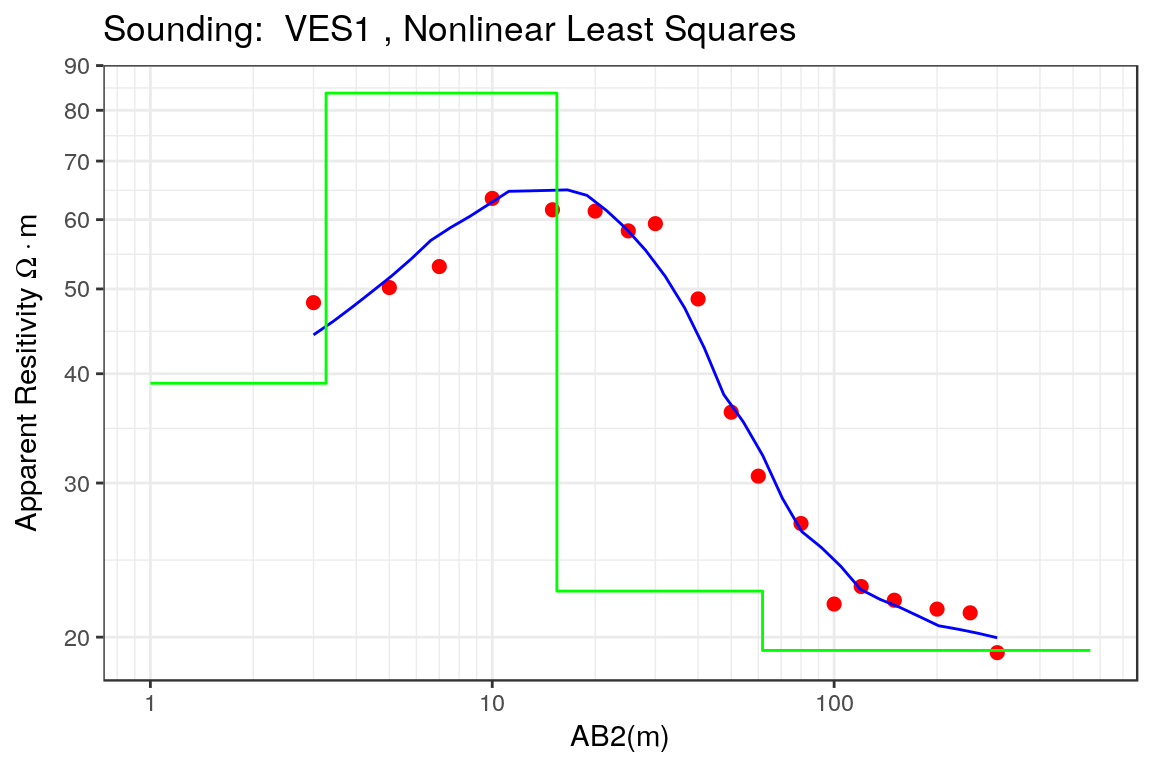
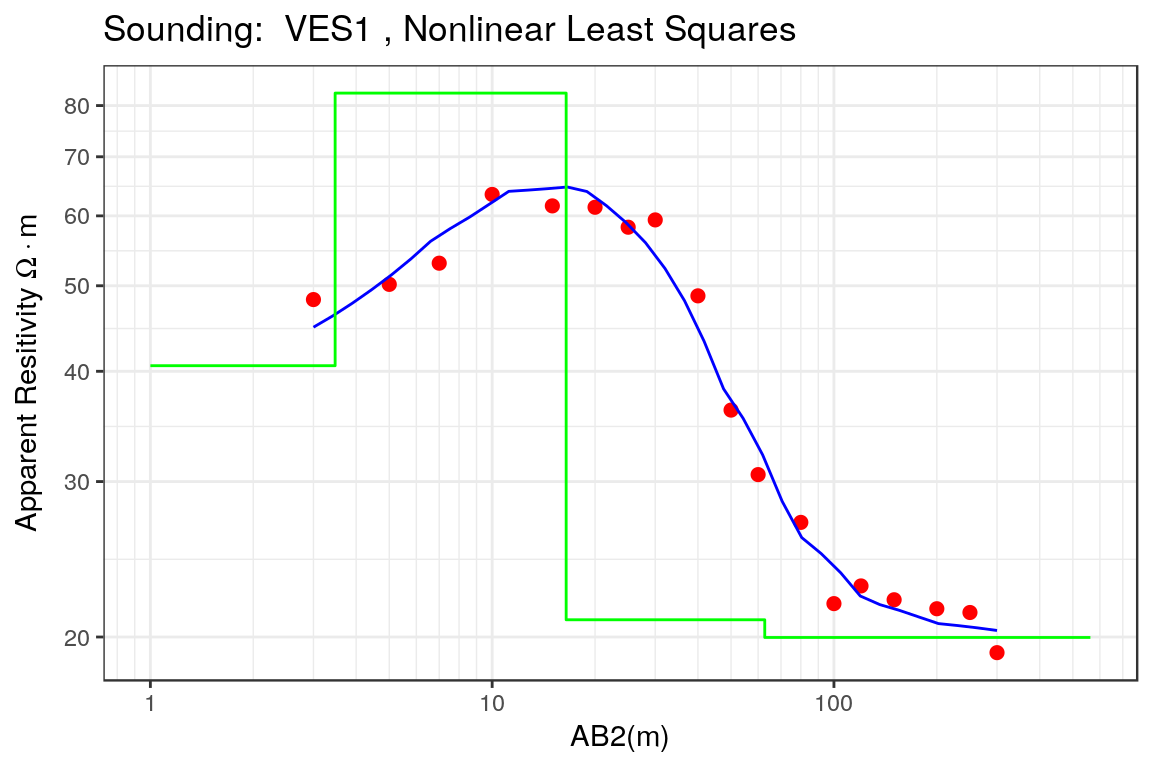
Package doc site updated.

diff --git a/docs/articles/rves-smoothing.html b/docs/articles/rves-smoothing.html
@@ -71,7 +71,7 @@
       <h1>VES Smoothing using the rves package</h1>
                         <h4 class="author">Oscar Garcia-Cabrejo</h4>
             
-            <h4 class="date">2018-03-04</h4>
+            <h4 class="date">2018-03-06</h4>
           </div>
 
     
@@ -200,9 +200,9 @@ thick &lt;-<span class="st"> </span><span class="kw">c</span>(<span class="dv">2
 par0 &lt;-<span class="st"> </span><span class="kw">c</span>(rho, thick)</code></pre></div>
 <p>and the true resistivities and layer thicknesses are estimated using the conventional nonlinear least-squares approach:</p>
 <div class="sourceCode"><pre class="sourceCode r"><code class="sourceCode r">res.ss.nls &lt;-<span class="st"> </span><span class="kw"><a href="../reference/calibrate_nls.html">calibrate_nls</a></span>(sev1ss, par0, <span class="dt">iterations =</span> <span class="dv">10</span>, <span class="dt">ireport =</span> <span class="dv">5</span>)
-<span class="co">#&gt; iteration, RSS, Rel Error =  0 0.002201384 2.654601 </span>
-<span class="co">#&gt; iteration, RSS, Rel Error =  5 0.0003970715 1.093091 </span>
-<span class="co">#&gt; iteration, RSS, Rel Error =  9 0.0002212703 0.8111669</span></code></pre></div>
+<span class="co">#&gt; iteration, RSS, Rel Error =  0 0.002201384 3.110148 </span>
+<span class="co">#&gt; iteration, RSS, Rel Error =  5 0.0003970715 1.267168 </span>
+<span class="co">#&gt; iteration, RSS, Rel Error =  9 0.0002212703 0.9438456</span></code></pre></div>
 <p>The results of the calibration are assigned to the ves object</p>
 <div class="sourceCode"><pre class="sourceCode r"><code class="sourceCode r">sev1ss<span class="op">$</span>rhopar &lt;-<span class="st"> </span>res.ss.nls<span class="op">$</span>rho
 sev1ss<span class="op">$</span>thickpar &lt;-<span class="st"> </span>res.ss.nls<span class="op">$</span>thickness
@@ -241,9 +241,9 @@ res.kr.df &lt;-<span class="st"> </span><span class="kw">data.frame</span>(<span
               <span class="dt">apprho =</span> res.kr<span class="op">$</span>apprho)</code></pre></div>
 <p>and the estimates of the real resistivities and thicknesses is obtained:</p>
 <div class="sourceCode"><pre class="sourceCode r"><code class="sourceCode r">res.kr.nls &lt;-<span class="st"> </span><span class="kw"><a href="../reference/calibrate_nls.html">calibrate_nls</a></span>(sev1kr, par0, <span class="dt">iterations =</span> <span class="dv">10</span>, <span class="dt">ireport =</span> <span class="dv">5</span>)
-<span class="co">#&gt; iteration, RSS, Rel Error =  0 0.002041967 2.584166 </span>
-<span class="co">#&gt; iteration, RSS, Rel Error =  5 0.0002895334 0.9670573 </span>
-<span class="co">#&gt; iteration, RSS, Rel Error =  9 0.0001384567 0.6277856</span></code></pre></div>
+<span class="co">#&gt; iteration, RSS, Rel Error =  0 0.002041967 3.017298 </span>
+<span class="co">#&gt; iteration, RSS, Rel Error =  5 0.0002895334 1.084667 </span>
+<span class="co">#&gt; iteration, RSS, Rel Error =  9 0.0001384567 0.7404027</span></code></pre></div>
 <p>The calibration results are assigned to the ves object using</p>
 <div class="sourceCode"><pre class="sourceCode r"><code class="sourceCode r">sev1kr<span class="op">$</span>rhopar &lt;-<span class="st"> </span>res.kr.nls<span class="op">$</span>rho
 sev1kr<span class="op">$</span>thickpar &lt;-<span class="st"> </span>res.kr.nls<span class="op">$</span>thickness
@@ -282,9 +282,9 @@ res.wv.df &lt;-<span class="st"> </span><span class="kw">data.frame</span>(<span
               <span class="dt">apprho =</span> res.wv<span class="op">$</span>apprho)</code></pre></div>
 <p>which in turn is used to estimate the layer parameters:</p>
 <div class="sourceCode"><pre class="sourceCode r"><code class="sourceCode r">res.wv.nls &lt;-<span class="st"> </span><span class="kw"><a href="../reference/calibrate_nls.html">calibrate_nls</a></span>(sev1wv, par0, <span class="dt">iterations =</span> <span class="dv">10</span>, <span class="dt">ireport =</span> <span class="dv">5</span>)
-<span class="co">#&gt; iteration, RSS, Rel Error =  0 0.002179202 2.449921 </span>
-<span class="co">#&gt; iteration, RSS, Rel Error =  5 0.0002837838 0.9449526 </span>
-<span class="co">#&gt; iteration, RSS, Rel Error =  9 0.0001236067 0.6023878</span></code></pre></div>
+<span class="co">#&gt; iteration, RSS, Rel Error =  0 0.002179202 3.100372 </span>
+<span class="co">#&gt; iteration, RSS, Rel Error =  5 0.0002837838 1.13349 </span>
+<span class="co">#&gt; iteration, RSS, Rel Error =  9 0.0001236067 0.7099613</span></code></pre></div>
 <p>The results of the calibration are assigned again to the ves object:</p>
 <div class="sourceCode"><pre class="sourceCode r"><code class="sourceCode r">sev1wv<span class="op">$</span>rhopar &lt;-<span class="st"> </span>res.wv.nls<span class="op">$</span>rho
 sev1wv<span class="op">$</span>thickpar &lt;-<span class="st"> </span>res.wv.nls<span class="op">$</span>thickness

diff --git a/docs/reference/plot_diagnostic.html b/docs/reference/plot_diagnostic.html
@@ -6,7 +6,7 @@
 <meta http-equiv="X-UA-Compatible" content="IE=edge">
 <meta name="viewport" content="width=device-width, initial-scale=1.0">
 
-<title>plot.ves — plot.ves • rves</title>
+<title>plot_diagnostic — plot_diagnostic • rves</title>
 
 <!-- jquery -->
 <script src="https://code.jquery.com/jquery-3.1.0.min.js" integrity="sha384-nrOSfDHtoPMzJHjVTdCopGqIqeYETSXhZDFyniQ8ZHcVy08QesyHcnOUpMpqnmWq" crossorigin="anonymous"></script>
@@ -93,47 +93,32 @@
       <div class="row">
   <div class="col-md-9 contents">
     <div class="page-header">
-    <h1>plot.ves</h1>
+    <h1>plot_diagnostic</h1>
     </div>
 
     
-    <p>Function to plot the Vertical Electric Sounding data. This function can create two different
-types of plots: resistivity and interpretation. The resistivity plot includes the
-apparent resistivity vs electrode spacing. In the interpretation plot, the values of the
-apparent resistivity vs electrode spacing and the thickness and real resisitivity of the
-layers are included.</p>
+    <p>Function to create an estimation diagnostic plot composed of:</p><ul>
+<li><p>Scatterplot between the measured and calculated apparement resistivity</p></li>
+<li><p>Scatterplot between calculated apparent resistivity and the residuals</p></li>
+<li><p>Scatterplot between the calculated apparent resistivity and the standarized residuals</p></li>
+<li><p>QQplot of the residuals</p></li>
+</ul>
     
 
-    <pre class="usage"><span class='co'># S3 method for ves</span>
-<span class='fu'>plot</span>(<span class='no'>x</span>, <span class='kw'>main</span> <span class='kw'>=</span> <span class='kw'>NULL</span>, <span class='kw'>type</span> <span class='kw'>=</span> <span class='fu'>c</span>(<span class='st'>"ves"</span>, <span class='st'>"transformation"</span>,
-  <span class='st'>"diagnostic"</span>), <span class='kw'>trans.type</span> <span class='kw'>=</span> <span class='fu'>c</span>(<span class='st'>"direct"</span>, <span class='st'>"scaling"</span>), <span class='no'>...</span>)</pre>
+    <pre class="usage"><span class='fu'>plot_diagnostic</span>(<span class='no'>x</span>)</pre>
     
     <h2 class="hasAnchor" id="arguments"><a class="anchor" href="#arguments"></a> Arguments</h2>
     <table class="ref-arguments">
     <colgroup><col class="name" /><col class="desc" /></colgroup>
     <tr>
       <th>x</th>
-      <td><p>A VES object</p></td>
-    </tr>
-    <tr>
-      <th>main</th>
-      <td><p>Title of the plot</p></td>
-    </tr>
-    <tr>
-      <th>type</th>
-      <td><p>A character string specifying the plot type. Currently only ves (measurements and
-earth model), transformation (resistivity-depth transformation) and diagnostic are supported.</p></td>
-    </tr>
-    <tr>
-      <th>trans.type</th>
-      <td><p>A character string specifying the transformation type. Only direct and scaling
-are currently supported.</p></td>
-    </tr>
-    <tr>
-      <th>...</th>
-      <td><p>Additional parameters to be passed to the plot function</p></td>
+      <td><p>A VES object, The VES must be intepreted.</p></td>
     </tr>
     </table>
+    
+    <h2 class="hasAnchor" id="value"><a class="anchor" href="#value"></a>Value</h2>
+
+    <p>This function returns a ggplot2 object</p>
     
 
   </div>
@@ -141,7 +126,13 @@ are currently supported.</p></td>
     <h2>Contents</h2>
     <ul class="nav nav-pills nav-stacked">
       <li><a href="#arguments">Arguments</a></li>
-                </ul>
+      
+      <li><a href="#value">Value</a></li>
+          </ul>
+
+    <h2>Author</h2>
+    
+Oscar Garcia-Cabrejo, <a href='mailto:khaors@gmail.com'>khaors@gmail.com</a>
 
   </div>
 </div>

diff --git a/docs/articles/rves-tutorial.html b/docs/articles/rves-tutorial.html
@@ -71,7 +71,7 @@
       <h1>RVES Tutorial: Vertical Electrical Sounding interpretation using R</h1>
                         <h4 class="author">Oscar Garcia-Cabrejo</h4>
             
-            <h4 class="date">2018-03-04</h4>
+            <h4 class="date">2018-03-06</h4>
           </div>
 
     
@@ -189,11 +189,11 @@ rerr &lt;-<span class="st"> </span><span class="dv">100</span><span class="op">*
 <p>The relative error is still larger than 10% and therefore a proper estimation method is required. The first method to be used in the parameter estimation of the Earth model is the nonlinear least squares, which is a fast method and a small number of iterations is required:</p>
 <div class="sourceCode"><pre class="sourceCode r"><code class="sourceCode r">par0 &lt;-<span class="st"> </span><span class="kw">c</span>(rho, thick)
 res.nls &lt;-<span class="st"> </span><span class="kw"><a href="../reference/calibrate_nls.html">calibrate_nls</a></span>(sev1a, par0, <span class="dt">iterations =</span> <span class="dv">10</span>, <span class="dt">ireport =</span> <span class="dv">5</span>)
-<span class="co">#&gt; iteration, RSS, Rel Error =  0 0.0026274 2.806841 </span>
-<span class="co">#&gt; iteration, RSS, Rel Error =  5 0.000757266 1.358926 </span>
-<span class="co">#&gt; Final step  7 , Error=  1.349501</span>
+<span class="co">#&gt; iteration, RSS, Rel Error =  0 0.0026274 3.394969 </span>
+<span class="co">#&gt; iteration, RSS, Rel Error =  5 0.000757266 1.782435 </span>
+<span class="co">#&gt; iteration, RSS, Rel Error =  9 0.0005737962 1.563724</span>
 rel.err.nls &lt;-<span class="st"> </span><span class="kw">format</span>(res.nls<span class="op">$</span>rel.err, <span class="dt">digits =</span> <span class="dv">3</span>)</code></pre></div>
-<p>After 10 iterations the relative error is of 1.35% which can be considered as a good model. Now these estimated parameters are assigned to the VES object:</p>
+<p>After 10 iterations the relative error is of 1.56% which can be considered as a good model. Now these estimated parameters are assigned to the VES object:</p>
 <div class="sourceCode"><pre class="sourceCode r"><code class="sourceCode r">sev1a<span class="op">$</span>rhopar &lt;-<span class="st"> </span>res.nls<span class="op">$</span>rho
 sev1a<span class="op">$</span>thickpar &lt;-<span class="st"> </span>res.nls<span class="op">$</span>thickness
 sev1a<span class="op">$</span>interpreted &lt;-<span class="st"> </span><span class="ot">TRUE</span></code></pre></div>

diff --git a/docs/articles/rves-transformation.html b/docs/articles/rves-transformation.html
@@ -71,7 +71,7 @@
       <h1>Resistivity-Depth Transformations using the rves package</h1>
                         <h4 class="author">Oscar Garcia-Cabrejo</h4>
             
-            <h4 class="date">2018-03-04</h4>
+            <h4 class="date">2018-03-06</h4>
           </div>
 
     
@@ -212,11 +212,12 @@ apprho &lt;-<span class="st"> </span>ves_data1<span class="op">$</span>apprho</c
 thick &lt;-<span class="st"> </span><span class="kw">c</span>(<span class="dv">2</span>,<span class="dv">10</span>,<span class="dv">50</span>,<span class="dv">500</span>)
 par &lt;-<span class="st"> </span><span class="kw">c</span>(rho, thick)
 res.sev1a &lt;-<span class="st"> </span><span class="kw"><a href="../reference/calibrate_nls.html">calibrate_nls</a></span>(sev1a, <span class="dt">par0 =</span> par, <span class="dt">iterations =</span> <span class="dv">10</span>, <span class="dt">ireport =</span> <span class="dv">2</span>)
-<span class="co">#&gt; iteration, RSS, Rel Error =  0 0.0026274 2.806841 </span>
-<span class="co">#&gt; iteration, RSS, Rel Error =  2 0.001574016 2.017499 </span>
-<span class="co">#&gt; iteration, RSS, Rel Error =  4 0.0009368164 1.51717 </span>
-<span class="co">#&gt; iteration, RSS, Rel Error =  6 0.0006746314 1.349501 </span>
-<span class="co">#&gt; Final step  7 , Error=  1.349501</span></code></pre></div>
+<span class="co">#&gt; iteration, RSS, Rel Error =  0 0.0026274 3.394969 </span>
+<span class="co">#&gt; iteration, RSS, Rel Error =  2 0.001574016 2.593227 </span>
+<span class="co">#&gt; iteration, RSS, Rel Error =  4 0.0009368164 1.990861 </span>
+<span class="co">#&gt; iteration, RSS, Rel Error =  6 0.0006746314 1.678979 </span>
+<span class="co">#&gt; iteration, RSS, Rel Error =  8 0.0005958724 1.586938 </span>
+<span class="co">#&gt; iteration, RSS, Rel Error =  9 0.0005737962 1.563724</span></code></pre></div>
 <p>The estimated model parameters are assigned again to the ves object:</p>
 <div class="sourceCode"><pre class="sourceCode r"><code class="sourceCode r">sev1a<span class="op">$</span>rhopar &lt;-<span class="st"> </span>res.sev1a<span class="op">$</span>rho
 sev1a<span class="op">$</span>thickpar &lt;-<span class="st"> </span>res.sev1a<span class="op">$</span>thickness

diff --git a/docs/reference/index.html b/docs/reference/index.html
@@ -231,6 +231,12 @@
         </tr><tr>
           <!--  -->
           <td>
+            <p><code><a href="plot_diagnostic.html">plot_diagnostic</a></code> </p>
+          </td>
+          <td><p>plot_diagnostic</p></td>
+        </tr><tr>
+          <!--  -->
+          <td>
             <p><code><a href="plot_transformation.html">plot_transformation</a></code> </p>
           </td>
           <td><p>plot_transformation</p></td>
